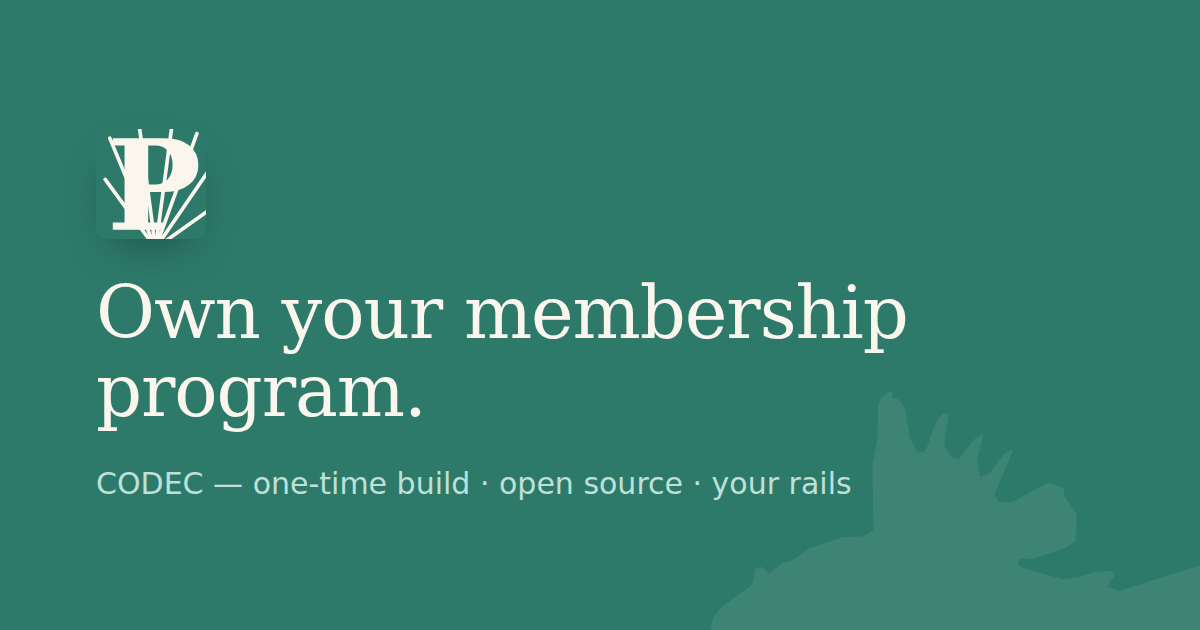
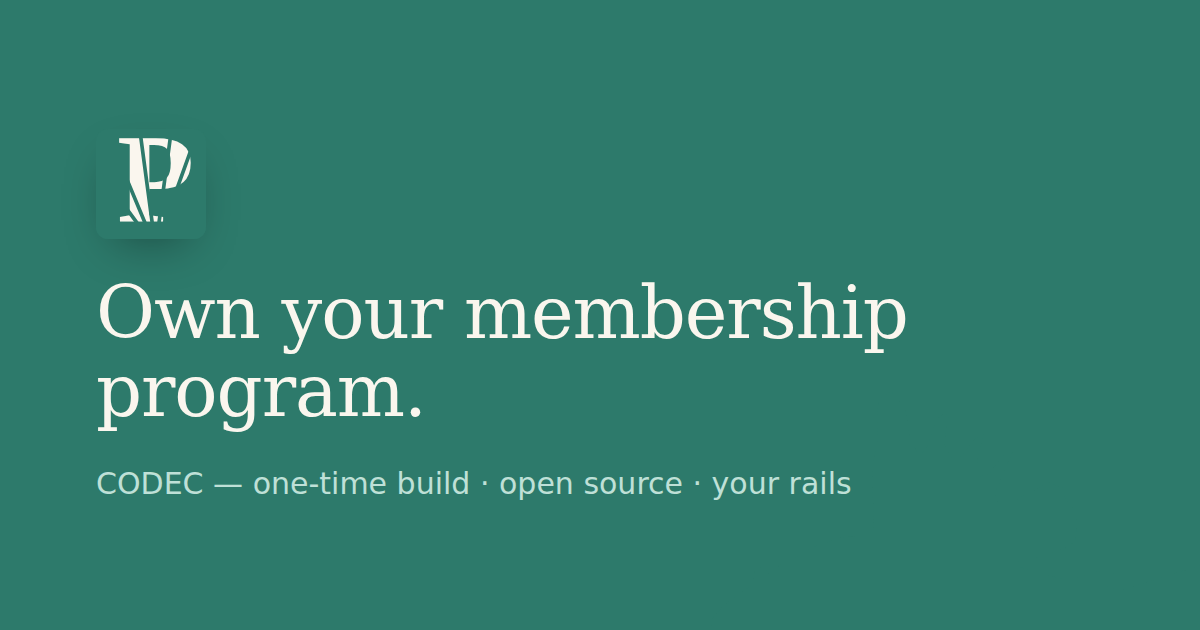
Swap in real Pleco brand assets and IBM Plex type family
Replace the placeholder mark/fish with the real brand files from
koda-wzkp/pleco-site (pleco-logo.svg, pleco-fish.svg) — the same mark
pleco.dev uses in its header. Inline them once as reusable <symbol>s
(#pmark, #fish) referenced via <use>, so a single mask id exists and the
footer fish recolors cream via CSS (its hardcoded fill is stripped).

Switch the type family from the reference's Fraunces/Inter/JetBrains Mono
to IBM Plex Serif/Sans/Mono to match pleco.dev's actual faces, per the
build brief's instruction to prefer consistency with pleco.dev.

Also add the lockup SVGs to the brand folder and refresh the OG image.

Claude-Session: https://claude.ai/code/session_011z6mASMrCvn8AcQypL3XkM

Changed region(s): [[0.0925, 0.2111, 0.185, 0.3921]]

diff --git a/src/styles/global.css b/src/styles/global.css
@@ -16,11 +16,11 @@
 html{scroll-behavior:smooth}
 body{
   background:var(--cream);color:var(--ink);
-  font-family:"Inter",system-ui,sans-serif;
+  font-family:"IBM Plex Sans",system-ui,sans-serif;
   font-size:17px;line-height:1.6;-webkit-font-smoothing:antialiased;
 }
 .wrap{max-width:var(--maxw);margin:0 auto;padding:0 28px}
-h1,h2,h3{font-family:"Fraunces",Georgia,serif;font-weight:500;line-height:1.08;letter-spacing:-0.015em}
+h1,h2,h3{font-family:"IBM Plex Serif",Georgia,serif;font-weight:500;line-height:1.08;letter-spacing:-0.015em}
 a{color:var(--teal-deep);text-decoration:none}
 a:hover{text-decoration:underline}
 :focus-visible{outline:2.5px solid var(--teal);outline-offset:3px;border-radius:2px}
@@ -28,7 +28,7 @@ a:hover{text-decoration:underline}
 /* ---------- nav ---------- */
 nav{position:sticky;top:0;z-index:20;background:rgba(250,246,238,0.86);backdrop-filter:blur(8px);border-bottom:1px solid var(--line)}
 .nav-in{display:flex;align-items:center;gap:14px;height:64px}
-.brand{display:inline-flex;align-items:center;gap:11px;font-family:"Fraunces",serif;font-size:20px;font-weight:600;color:var(--ink);padding:8px 0;min-height:44px}
+.brand{display:inline-flex;align-items:center;gap:11px;font-family:"IBM Plex Serif",Georgia,serif;font-size:20px;font-weight:600;color:var(--ink);padding:8px 0;min-height:44px}
 .brand:hover{text-decoration:none}
 .brand svg{width:30px;height:30px;display:block}
 .nav-sp{flex:1}
@@ -45,7 +45,7 @@ nav{position:sticky;top:0;z-index:20;background:rgba(250,246,238,0.86);backdrop-
 .hero h1 .teal{color:var(--teal)}
 .hero .lede{font-size:clamp(1.05rem,2.2vw,1.3rem);color:var(--gray);max-width:52ch;margin-top:26px;line-height:1.5}
 .hero-cta{display:flex;gap:14px;flex-wrap:wrap;margin-top:38px}
-.btn{display:inline-flex;align-items:center;gap:9px;padding:13px 22px;border-radius:9px;font-weight:500;font-size:16px;font-family:"Inter",sans-serif;min-height:44px}
+.btn{display:inline-flex;align-items:center;gap:9px;padding:13px 22px;border-radius:9px;font-weight:500;font-size:16px;font-family:"IBM Plex Sans",sans-serif;min-height:44px}
 .btn-primary{background:var(--teal);color:var(--cream)}
 .btn-primary:hover{background:var(--teal-deep);text-decoration:none}
 .btn-ghost{background:transparent;color:var(--ink);border:1.5px solid var(--line)}
@@ -55,7 +55,7 @@ nav{position:sticky;top:0;z-index:20;background:rgba(250,246,238,0.86);backdrop-
 
 /* ---------- section scaffold ---------- */
 section{padding:76px 0}
-.eyebrow{font-family:"JetBrains Mono",monospace;font-size:12.5px;letter-spacing:0.13em;text-transform:uppercase;color:var(--teal);margin-bottom:16px}
+.eyebrow{font-family:"IBM Plex Mono",ui-monospace,monospace;font-size:12.5px;letter-spacing:0.13em;text-transform:uppercase;color:var(--teal);margin-bottom:16px}
 .sec-title{font-size:clamp(1.9rem,4vw,2.7rem);max-width:20ch}
 .sec-sub{color:var(--gray);max-width:56ch;margin-top:16px;font-size:1.06rem}
 
@@ -69,7 +69,7 @@ section{padding:76px 0}
 .taxfig{background:var(--teal-deep);border-radius:14px;padding:32px 30px}
 .taxfig .row{display:flex;justify-content:space-between;align-items:baseline;padding:13px 0;border-bottom:1px solid rgba(255,255,255,0.13);font-size:15px;color:#CFE6DF}
 .taxfig .row:last-child{border-bottom:0}
-.taxfig .row .v{font-family:"Fraunces",serif;font-size:20px;color:#fff}
+.taxfig .row .v{font-family:"IBM Plex Serif",Georgia,serif;font-size:20px;color:#fff}
 .taxfig .row.bad .v{color:#EABBA6}
 .taxfig .row.good .v{color:#8FD9C6}
 .taxfig .cap{font-size:12.5px;color:#9CC4BA;margin-top:16px;line-height:1.45}
@@ -78,7 +78,7 @@ section{padding:76px 0}
 /* ---------- how it works ---------- */
 .own-grid{display:grid;grid-template-columns:repeat(3,1fr);gap:24px;margin-top:48px}
 .own-card{background:#fff;border:1px solid var(--line);border-radius:13px;padding:26px 24px}
-.own-card .k{font-family:"JetBrains Mono",monospace;font-size:12px;letter-spacing:0.08em;text-transform:uppercase;color:var(--teal);margin-bottom:12px}
+.own-card .k{font-family:"IBM Plex Mono",ui-monospace,monospace;font-size:12px;letter-spacing:0.08em;text-transform:uppercase;color:var(--teal);margin-bottom:12px}
 .own-card h3{font-size:1.35rem;margin-bottom:9px}
 .own-card p{font-size:0.98rem;color:var(--gray);line-height:1.55}
 @media(max-width:760px){.own-grid{grid-template-columns:1fr}}
@@ -92,8 +92,8 @@ section{padding:76px 0}
 .term-bar{display:flex;align-items:center;gap:8px;padding:12px 16px;background:#211F19;border-bottom:1px solid #34322B}
 .term-bar .dot{width:11px;height:11px;border-radius:50%}
 .term-bar .dot.r{background:#C4574A}.term-bar .dot.y{background:#D0A048}.term-bar .dot.g{background:#5FA98C}
-.term-bar .fn{margin-left:10px;font-family:"JetBrains Mono",monospace;font-size:12.5px;color:#8A867C}
-.term pre{margin:0;padding:22px 22px 26px;font-family:"JetBrains Mono",monospace;font-size:13.5px;line-height:1.75;color:#D7D3C8;overflow-x:auto}
+.term-bar .fn{margin-left:10px;font-family:"IBM Plex Mono",ui-monospace,monospace;font-size:12.5px;color:#8A867C}
+.term pre{margin:0;padding:22px 22px 26px;font-family:"IBM Plex Mono",ui-monospace,monospace;font-size:13.5px;line-height:1.75;color:#D7D3C8;overflow-x:auto}
 .term .c{color:#6E9B8B}    /* comment/teal */
 .term .p{color:#8A867C}    /* prompt */
 .term .s{color:#D9A05B}    /* string */
@@ -105,9 +105,9 @@ section{padding:76px 0}
 .pk-grid{display:grid;grid-template-columns:repeat(3,1fr);gap:22px;margin-top:48px}
 .pk{background:#fff;border:1px solid var(--line);border-radius:14px;padding:28px 26px;display:flex;flex-direction:column}
 .pk.feature{border-color:var(--teal);border-width:1.5px;box-shadow:0 20px 50px -34px rgba(45,122,107,0.5)}
-.pk .name{font-family:"JetBrains Mono",monospace;font-size:12px;letter-spacing:0.1em;text-transform:uppercase;color:var(--gray)}
+.pk .name{font-family:"IBM Plex Mono",ui-monospace,monospace;font-size:12px;letter-spacing:0.1em;text-transform:uppercase;color:var(--gray)}
 .pk.feature .name{color:var(--teal)}
-.pk .price{font-family:"Fraunces",serif;font-size:1.9rem;color:var(--ink);margin:10px 0 4px}
+.pk .price{font-family:"IBM Plex Serif",Georgia,serif;font-size:1.9rem;color:var(--ink);margin:10px 0 4px}
 .pk .unit{font-size:13px;color:var(--gray);margin-bottom:18px}
 .pk ul{list-style:none;display:flex;flex-direction:column;gap:10px;font-size:0.95rem;color:var(--ink)}
 .pk li{display:flex;gap:9px;align-items:flex-start;line-height:1.4}
@@ -120,7 +120,7 @@ section{padding:76px 0}
 .live{background:var(--cream-2)}
 .live-grid{display:grid;grid-template-columns:1fr 1fr;gap:22px;margin-top:44px}
 .live-card{background:var(--cream);border:1px solid var(--line);border-radius:13px;padding:28px 26px}
-.live-card .tag{font-family:"JetBrains Mono",monospace;font-size:11.5px;letter-spacing:0.08em;text-transform:uppercase;color:var(--teal);display:inline-flex;align-items:center;gap:7px;margin-bottom:14px}
+.live-card .tag{font-family:"IBM Plex Mono",ui-monospace,monospace;font-size:11.5px;letter-spacing:0.08em;text-transform:uppercase;color:var(--teal);display:inline-flex;align-items:center;gap:7px;margin-bottom:14px}
 .live-card .tag::before{content:"";width:7px;height:7px;border-radius:50%;background:var(--teal);box-shadow:0 0 0 3px rgba(45,122,107,0.18)}
 .live-card h3{font-size:1.4rem;margin-bottom:6px}
 .live-card .loc{font-size:0.92rem;color:var(--gray);margin-bottom:12px}

diff --git a/README.md b/README.md
@@ -11,28 +11,31 @@ npm run build    # static build to dist/
 npm run preview  # serve the build locally
 ```
 
+## Brand assets
+
+The P-mark and fish in `src/assets/brand/` are the **real** Pleco brand files,
+copied from the `koda-wzkp/pleco-site` repo (`public/pleco-logo.svg` and
+`public/pleco-fish.svg`) — the same `pleco-logo.svg` pleco.dev uses as its mark.
+They're inlined once as reusable `<symbol>`s (`#pmark`, `#fish`) and referenced
+via `<use>`, so the header mark renders identically to pleco.dev's. The mark's
+"P" is IBM Plex Serif `<text>`; keep IBM Plex Serif loaded so it doesn't fall
+back to Georgia. `public/favicon.svg` is a copy of the mark.
+
+If the brand kit updates, re-copy those two files and run
+`node scripts/generate-og.mjs` to refresh `public/og.png`.
+
 ## ⚠️ Before launch — required
 
-1. **Replace the placeholder brand SVGs with the real brand kit files.**
-   The two files in `src/assets/brand/` are placeholders reconstructed from the
-   design reference and are known to render the P-mark incorrectly:
-   - `src/assets/brand/logo-teal-square.svg` → replace with the real
-     `logo-teal-square.svg` from `/pleco_brand/` (boxed P mark: teal box, cream P, ray mask)
-   - `src/assets/brand/pleco-fish.svg` → replace with the real fish silhouette
-     asset (keep the `<path>` without a `fill` attribute so page CSS can color it;
-     if the brand file hardcodes a fill, strip it)
-   - Also update `public/favicon.svg` (copy of the mark) and regenerate the OG image.
-   - Verify the rendered mark matches the pleco.dev header before shipping.
-
-2. **Make this repo public** (or point links at whatever repo is public).
+1. **Make this repo public** (or point links at whatever repo is public).
    Every "Repo" / "Browse the source" / terminal `git clone` link points at
    `https://github.com/koda-wzkp/Pleco-Codec` (set once as `REPO_URL` in
    `src/pages/index.astro`). The page's open-source pitch cannot ship against a 404.
 
-3. **Regenerate the OG image** after the real mark lands:
-   ```sh
-   node scripts/generate-og.mjs   # writes public/og.png (1200×630, static)
-   ```
+2. **Regenerate `public/og.png` in an environment where fonts load.** The
+   committed OG image was generated in a sandbox with Google Fonts blocked, so
+   its text is in the Georgia fallback rather than IBM Plex Serif. Re-run
+   `node scripts/generate-og.mjs` locally (or on a machine with network access)
+   before launch. The mark itself renders correctly either way.
 
 ## Design notes
 
@@ -43,8 +46,10 @@ npm run preview  # serve the build locally
   starting state only applies when an inline script confirms JS +
   IntersectionObserver + no `prefers-reduced-motion` (adds `.js` to `<html>`).
   Text never depends on JS to be readable.
-- Fonts: Fraunces (display) / Inter (body) / JetBrains Mono (eyebrows, terminal)
-  via Google Fonts, `display=swap`.
+- Fonts: IBM Plex Serif (display) / IBM Plex Sans (body) / IBM Plex Mono
+  (eyebrows, terminal) via Google Fonts, `display=swap` — matching pleco.dev's
+  type family (the reference's Fraunces/Inter/JetBrains Mono was swapped for the
+  real pleco.dev faces per the build brief).
 
 ## Deploy
 